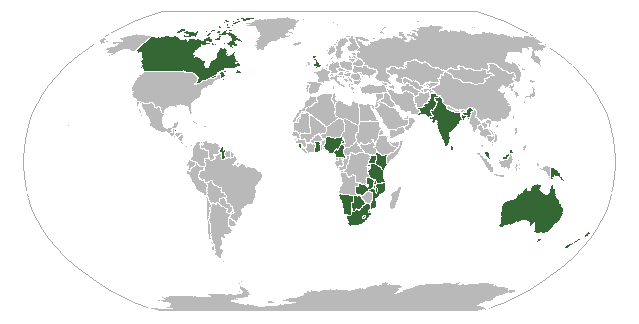
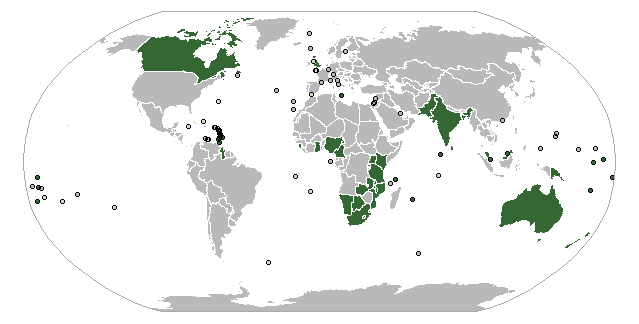
Add tiny countries

diff --git a/_posts/2019-04-27-Using-CountryCodes.md b/_posts/2019-04-27-Using-CountryCodes.md
@@ -96,6 +96,16 @@ and replacing the `dataframe`for the dedicated database.
 ```r
 testmap = ne_countries(50, "countries", returnclass = "sf") %>% select(ISO_3166_3 = adm0_a3) %>% 
     full_join(df_org)
+
+# We add also tiny countries
+tiny = ne_countries(50, "tiny_countries", returnclass = "sf") %>% select(ISO_3166_3 = adm0_a3) %>% 
+    full_join(df_org)
+
+# Identify dependencies
+ISOCommon = df_org %>% filter(!is.na(C)) %>% select(ISO_3166_3.sov = ISO_3166_3, 
+    C_sov = C)
+tiny = left_join(tiny, ISOCommon)
+tiny$C = coalesce(tiny$C, tiny$C_sov)
 ```
 
 ##Plotting map: Wikipedia style
@@ -110,6 +120,7 @@ The map we will generate is presented under a Robinson projection and the color 
 ```r
 # Projecting the map
 testmap_rob = st_transform(testmap, "+proj=robin")
+tiny_rob = st_transform(tiny, "+proj=robin")
 
 # Bounding box
 bbox = st_linestring(rbind(c(-180, 90), c(180, 90), c(180, -90), c(-180, -90), 
@@ -117,13 +128,25 @@ bbox = st_linestring(rbind(c(-180, 90), c(180, 90), c(180, -90), c(-180, -90),
     st_transform(crs = "+proj=robin")
 
 # Plotting
-par(mar = c(0, 0, 0, 0))
+par(mar = c(0, 0, 0, 0), bg = NA)
 plot(bbox, col = "#FFFFFF", border = "#AAAAAA", lwd = 1.5)
 plot(st_geometry(testmap_rob), col = "#B9B9B9", border = "#FFFFFF", lwd = 0.1, 
     add = T)
 
 plot(st_geometry(testmap_rob %>% filter(!is.na(C))), col = "#346733", border = "#FFFFFF", 
     lwd = 0.1, add = T)
+
+# By last, add tiny countries All
+plot(st_geometry(tiny_rob), col = "#B9B9B9", lwd = 0.1, add = T, pch = 16)
+# Dependencies
+plot(st_geometry(tiny_rob %>% filter(!is.na(C)) %>% filter(!is.na(ISO_3166_3.sov))), 
+    col = "#C6DEBD", lwd = 0.1, pch = 16, add = T)
+# Independent
+plot(st_geometry(tiny_rob %>% filter(!is.na(C)) %>% filter(is.na(ISO_3166_3.sov))), 
+    col = "#346733", lwd = 0.1, pch = 16, add = T)
+# Borders
+plot(st_geometry(tiny_rob), col = "#000000", lwd = 0.1, add = T)
+plot(bbox, col = NA, border = "#AAAAAA", lwd = 1.5, add = T)
 ```
 
 ![plot of chunk mapfin](https://raw.githubusercontent.com/dieghernan/dieghernan.github.io/master/_codes/2019-04-27-Using-CountryCodes/mapfin-1.png)
